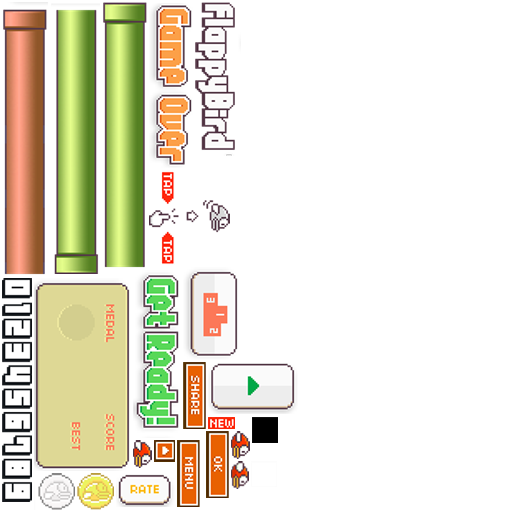
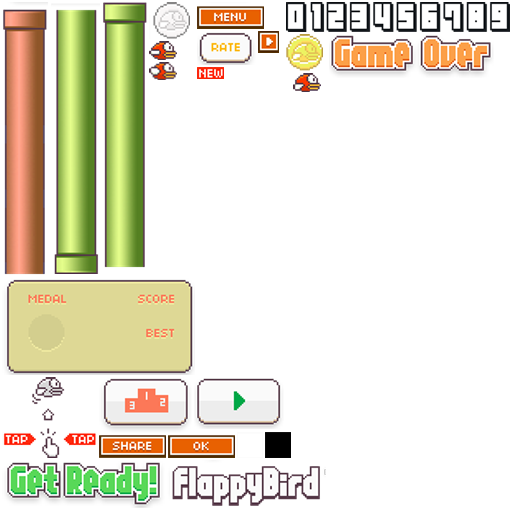
plist

Changed region(s): [[0.0, 0.0, 1.0, 1.0]]

diff --git a/src/GameOver.js b/src/GameOver.js
@@ -44,6 +44,18 @@ var GameOverLayer = cc.Layer.extend({
             base.zOrder =1;
             this.addChild(base);
 
+            var score = new cc.Sprite("#number.png");
+            var _scoreRect = score.getTextureRect();
+
+            var singleWidth = _scoreRect.width/10;
+            score.setTextureRect(cc.rect(_scoreRect.x+7*singleWidth,_scoreRect.y,_scoreRect.width/10,_scoreRect.height));
+            score.scale = 0.5;
+
+            score.x = this.winSize.width / 2;
+            score.y = this.winSize.height /2;
+            score.zOrder =1;
+            this.addChild(score);
+
             var ok = new cc.Sprite("#ok.png");
             ok.x = this.winSize.width /4*1;
             ok.y = this.winSize.height /4*1;
